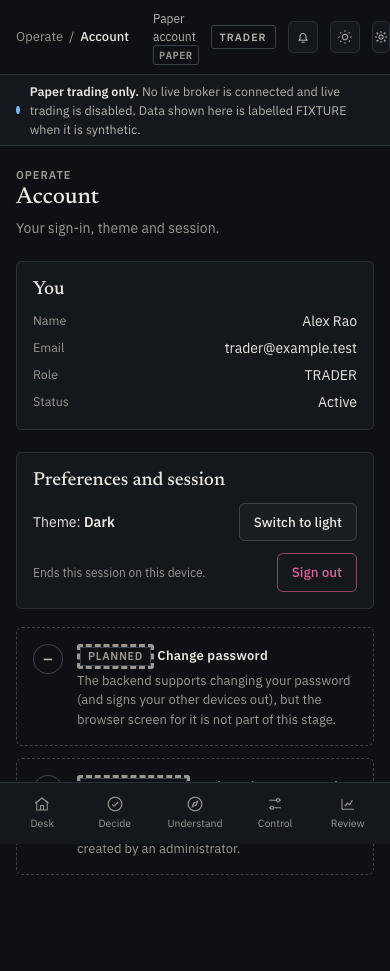
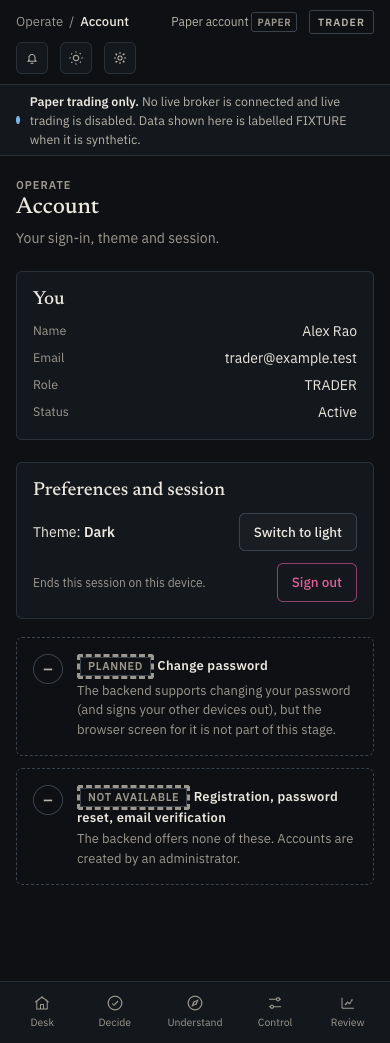
fix(frontend): phone topbar wraps instead of overflowing; add 320px viewport to the accessibility matrix
The first hosted run showed the Account icon pushed past the screen edge at 390px on Linux (sw 394 > iw 390). The topbar did not wrap. It now wraps onto a second row on phones,
and the matrix includes a 320px viewport that reproduces the defect on any machine (it failed before this change, passes after). The capture helper no longer injects a <style> (the page CSP rightly blocks it).

Verified locally: typecheck, lint, 123 unit tests on Node 26 and real Node 20.20.2, 84 Playwright tests on installed Chrome, and on bundled Chromium under real Node 20.20.2; production audit 0.
Documentation updated with the first-run findings and final numbers.

diff --git a/frontend/e2e/responsive-a11y.spec.ts b/frontend/e2e/responsive-a11y.spec.ts
@@ -2,7 +2,7 @@ import AxeBuilder from "@axe-core/playwright";
 import { mkdirSync } from "node:fs";
 import { ADMIN, TRADER, expect, setTheme, signIn, test } from "./fixtures";
 
-const VIEWPORTS = [{ name: "desktop", width: 1440, height: 900 }, { name: "tablet", width: 820, height: 1000 }, { name: "phone", width: 390, height: 844 }] as const;
+const VIEWPORTS = [{ name: "desktop", width: 1440, height: 900 }, { name: "tablet", width: 820, height: 1000 }, { name: "phone", width: 390, height: 844 }, { name: "narrow phone", width: 320, height: 640 }] as const; // 320 px is the narrowest supported screen; it also exposes text-width differences between operating systems
 const PAGES = [
   { name: "sign-in", path: "/login", who: null }, { name: "trader-overview", path: "/", who: TRADER }, { name: "trader-paper", path: "/paper", who: TRADER }, { name: "trader-account", path: "/account", who: TRADER },
   { name: "trader-gallery", path: "/design-system", who: TRADER }, { name: "admin-platform", path: "/admin/system", who: ADMIN }, { name: "admin-blocked", path: "/approvals", who: ADMIN },
@@ -22,7 +22,7 @@ for (const v of VIEWPORTS) for (const theme of ["dark", "light"] as const) {
       expect(overflow.sw, `page must not scroll sideways (sw ${overflow.sw} > iw ${overflow.iw}); offenders: ${offenders.join(" || ")}`).toBeLessThanOrEqual(overflow.iw);
       const results = await new AxeBuilder({ page }).withTags(["wcag2a", "wcag2aa", "wcag21a", "wcag21aa", "wcag22aa"]).analyze();
       expect(results.violations.map((x) => `${x.id}: ${x.nodes.map((n) => n.target.join(" ")).join(" | ")}`)).toEqual([]);
-      if (SHOTS && (p.name !== "admin-blocked") && (v.name !== "tablet" || p.name === "trader-overview")) { mkdirSync(SHOTS, { recursive: true }); await page.screenshot({ path: `${SHOTS}/${p.name}.${theme}.${v.width}.png`, fullPage: true }); }
+      if (SHOTS && (p.name !== "admin-blocked") && (v.name !== "tablet" || p.name === "trader-overview")) { mkdirSync(SHOTS, { recursive: true }); await page.evaluate(() => { document.querySelector<HTMLElement>(".mobnav")?.style.setProperty("position", "static", "important"); }); await page.screenshot({ path: `${SHOTS}/${p.name}.${theme}.${v.width}.png`, fullPage: true }); }
     });
   });
 }

diff --git a/frontend/src/styles/desk.css b/frontend/src/styles/desk.css
@@ -111,7 +111,7 @@ caption{caption-side:top;text-align:left;padding:0 0 8px;color:var(--tx3);font-s
 .verdict{display:inline-block;font:600 10.5px var(--f-ui);letter-spacing:.06em;padding:2px 6px;border-radius:3px;background:var(--s3);color:var(--tx2)}
 .mobnav{display:none}
 @media (max-width:1100px){:root{--rail:64px}.rail{padding:12px 8px}.brand b,.ws>.up,.nav .tag,.rail .foot,.nav a .lbl{display:none}.nav a span:not(.tag){position:absolute;width:1px;height:1px;overflow:hidden;clip:rect(0 0 0 0);white-space:nowrap}.nav a{justify-content:center}.g2,.g3{grid-template-columns:minmax(0,1fr)}.g4{grid-template-columns:repeat(2,minmax(0,1fr))}.search{min-width:0}}
-@media (max-width:720px){.app{grid-template-columns:1fr}.rail{display:none}.top{padding:10px 16px}.safety{padding:7px 16px}.page{padding:18px 16px 96px}.search{display:none}.g4{grid-template-columns:1fr 1fr}.pagehead h1{font-size:23px}
+@media (max-width:720px){.app{grid-template-columns:1fr}.rail{display:none}.top{padding:10px 16px;flex-wrap:wrap;row-gap:8px}.top>nav{min-width:0;flex:1 1 auto}.top .sp{display:none}.safety{padding:7px 16px}.page{padding:18px 16px 96px}.search{display:none}.g4{grid-template-columns:1fr 1fr}.pagehead h1{font-size:23px}
   .mobnav{display:flex;position:fixed;left:0;right:0;bottom:0;z-index:10;background:var(--s1);border-top:1px solid var(--line);padding:6px 6px calc(6px + env(safe-area-inset-bottom));justify-content:space-around}
   .mobnav a{display:flex;flex-direction:column;align-items:center;gap:3px;font-size:10.5px;color:var(--tx3);padding:6px 8px;border-radius:6px;min-width:56px}.mobnav a[aria-current="page"]{color:var(--tx);background:var(--accent-soft)}.mobnav svg{width:18px;height:18px;stroke:currentColor;fill:none;stroke-width:1.6}
   .g4s{grid-template-columns:minmax(0,1fr)!important}.drow{grid-template-columns:1fr}.drow .btn{width:100%}.hide-m{display:none!important}}

diff --git a/docs/frontend/foundation.md b/docs/frontend/foundation.md
@@ -1,6 +1,6 @@
 # TWINS Frontend — Stage 09.2 Implementation Record (Foundation and Design System)
 
-Status: **IMPLEMENTED LOCALLY. Hosted CI NOT run** (nothing committed or pushed; the new `frontend` workflow has therefore never executed on GitHub). Scope: the standalone app, the secure BFF, the sign-in foundation, the design system and the application shell. **No product screen is built**: every screen route renders an honest placeholder (PLANNED, with backend gaps shown as NOT AVAILABLE). Companion: [architecture](architecture.md), [permissions-and-navigation](permissions-and-navigation.md), [contracts-verification](contracts-verification.md).
+Status: **IMPLEMENTED. Hosted CI for the final fix is recorded in the completion report** (first hosted run of the `frontend` workflow, `afa5a36`, found two real problems that are fixed below). Scope: the standalone app, the secure BFF, the sign-in foundation, the design system and the application shell. **No product screen is built**: every screen route renders an honest placeholder (PLANNED, with backend gaps shown as NOT AVAILABLE). Companion: [architecture](architecture.md), [permissions-and-navigation](permissions-and-navigation.md), [contracts-verification](contracts-verification.md).
 
 ## 1. What exists
 
@@ -63,25 +63,31 @@ Gallery: `/design-system` renders every component and all eight states; it exist
 
 TRADER sees all private and shared screens and no administration. ADMIN sees only Platform overview, Opportunities, Research, Market Intelligence, Users & Access (planned) and Account; the Overview redirects to Platform overview; every private URL shows "Not available to administrators"; a TRADER opening `/admin/*` sees "Not available to you". Account selection appears for TRADER only (the relay `GET /accounts` through the BFF is the one real data call in this stage).
 
-## 6. Test evidence (local; hosted CI not run)
+## 6. Test evidence (local; hosted CI result in the completion report)
 
 | Check | Result |
 |---|---|
 | `npm run typecheck` (frontend) | passes |
 | `npm run lint` (frontend; includes no-browser-storage, no-numeric-parsing, no-`any`, no non-null assertions) | passes, 0 warnings |
-| Unit and BFF security tests (Vitest 5; 13 files) | **123 passed** |
-| Playwright (real Chrome against the production standalone server and the stub API) | **70 passed**: auth/session 9, roles and relay 8, security headers/CSP 4, responsive + accessibility **42** (7 pages × 3 viewports × 2 themes, each asserting no horizontal page scroll and **0 axe violations** under WCAG 2.0/2.1/2.2 A+AA tags **including colour contrast**), layout/keyboard/dialog/theme/gallery 7 |
+| Unit and BFF security tests (Vitest 5; 13 files) | **123 passed** on Node 26 and on real Node 20.20.2 |
+| Playwright (production standalone server + stub API; run on installed Chrome, on Playwright's bundled Chromium, and under real Node 20.20.2) | **84 passed** in every combination: auth/session 9, roles and relay 8, security headers/CSP 4, responsive + accessibility **56** (7 pages × **4 viewports: 1440, 820, 390 and 320 px** × 2 themes, each asserting no horizontal page scroll and **0 axe violations** under WCAG 2.0/2.1/2.2 A+AA **including colour contrast**), layout/keyboard/dialog/theme/gallery 7 |
 | `npm run build` (standalone) | passes (fonts fetched from Google Fonts at build time and self-hosted) |
 | Production dependency audit | 0 vulnerabilities (Zod and Vitest were upgraded and PostCSS overridden to clear findings) |
 | Dev-dependency audit | 7 moderate (typescript-eslint → minimatch ReDoS, tooling only; no fix available) |
 | Drift-detection check | three BFF guards deliberately broken (writes relay on, CSRF dropped, origin check weakened): 3 test failures; one mutation (missing-Origin) was an equivalent mutant (equality still refuses it); all restored |
 | Backend side after the root edits | root `tsc -b` passes; root lint 0 errors (831 pre-existing warnings, none new); secret scan clean; `tests/unit/api-contracts` + `tests/unit/safety` 304 passed |
 
-Screenshots: `docs/frontend/foundation/screenshots/` (sign-in, trader overview/paper/account/gallery, admin platform, desktop 1440 and phone 390 in dark and light, plus a tablet 820 overview).
+Screenshots: `docs/frontend/foundation/screenshots/` (38 files: sign-in, trader overview/paper/account/gallery and admin platform at desktop 1440, phone 390 and narrow-phone 320 in dark and light, plus a tablet 820 overview).
 
 ## 7. Frontend CI
 
-`.github/workflows/frontend.yml`: a separate workflow (path-filtered to `frontend/**`, `packages/api-contracts/**` and itself), Node 20 and 22, `npm ci` against the frontend lockfile, production audit (fails on high), typecheck, lint, unit tests, build, standalone preparation, Playwright chromium install, e2e. It starts no database or Redis and needs no secret. It is **not** part of `ci-gate`; connecting it is a planned, separately approved step. **Result: not run** (no push).
+`.github/workflows/frontend.yml`: a separate workflow (path-filtered to `frontend/**`, `packages/api-contracts/**` and itself), Node 20 and 22, `npm ci` against the frontend lockfile, production audit (fails on high), typecheck, lint, unit tests, build, standalone preparation, Playwright chromium install, e2e. It starts no database or Redis and needs no secret. It is **not** part of `ci-gate`; connecting it is a planned, separately approved step. **Result:** the first run (`afa5a36`) failed on both Node versions for the two reasons in §7a; the fix run's result is in the completion report.
+
+### 7a. What the first hosted run found (and the fixes)
+
+The first run of `frontend.yml` (commit `afa5a36`) failed, which is what it is for:
+1. **Node 20:** `jsdom 31` requires Node 22+ (its `undici` needs an API Node 20 lacks), so the jsdom test files could not start. Fixed by moving to `jsdom 27` (Node ^20.19); verified under real Node 20.20.2 (123 unit and 84 Playwright tests).
+2. **Both Node versions, Linux only:** at phone width the topbar (breadcrumb, account selector, role chip and three icon buttons) did not wrap, so a few pixels of Linux font-width difference pushed the Account icon past the screen edge (`sw 394 > iw 390`). This did not reproduce on macOS at 390 px. A first fix (wrapping long words) did not address it; the assertion was changed to **name the offending elements**, which identified the topbar, and a **320 px viewport** was added to the matrix, which reproduces the defect on any machine. The phone topbar now wraps onto a second row instead of overflowing.
 
 ## 8. Security findings and residual risks
 

diff --git a/docs/frontend/testing-and-accessibility.md b/docs/frontend/testing-and-accessibility.md
@@ -33,7 +33,7 @@ These tests only read code and fixtures; they cannot alter risk, ownership, appr
 
 **Implemented in Stage 09.1** (backend `unit` job, 9 files, 70 tests): import/browser-safety guard, role parity, error parity (platform + approval + login), route-table/OpenAPI/analytics catalogue parity, request-rule behaviour, response-key parity, analytics envelope, vocabulary parity, ADMIN restrictions. Registered in [contracts-verification](contracts-verification.md).
 
-**Implemented in Stage 09.2** (frontend, local evidence; hosted CI not run): 123 Vitest tests (BFF security, configuration, CSP, middleware, throttle, allow-list, navigation registry, formatting, data states, components with axe, shell by role, session expiry and cache isolation) and 70 Playwright tests (auth/session, roles and relay, headers/CSP, responsive + accessibility matrix with 0 axe violations including contrast, keyboard, dialog, theme). See [foundation](foundation.md) §6.
+**Implemented in Stage 09.2** (frontend; hosted CI result in the completion report): 123 Vitest tests (BFF security, configuration, CSP, middleware, throttle, allow-list, navigation registry, formatting, data states, components with axe, shell by role, session expiry and cache isolation) and 84 Playwright tests (auth/session, roles and relay, headers/CSP, responsive + accessibility matrix at 1440/820/390/320 px with 0 axe violations including contrast, keyboard, dialog, theme). See [foundation](foundation.md) §6.
 
 ## 4. Unit/component acceptance examples
 
